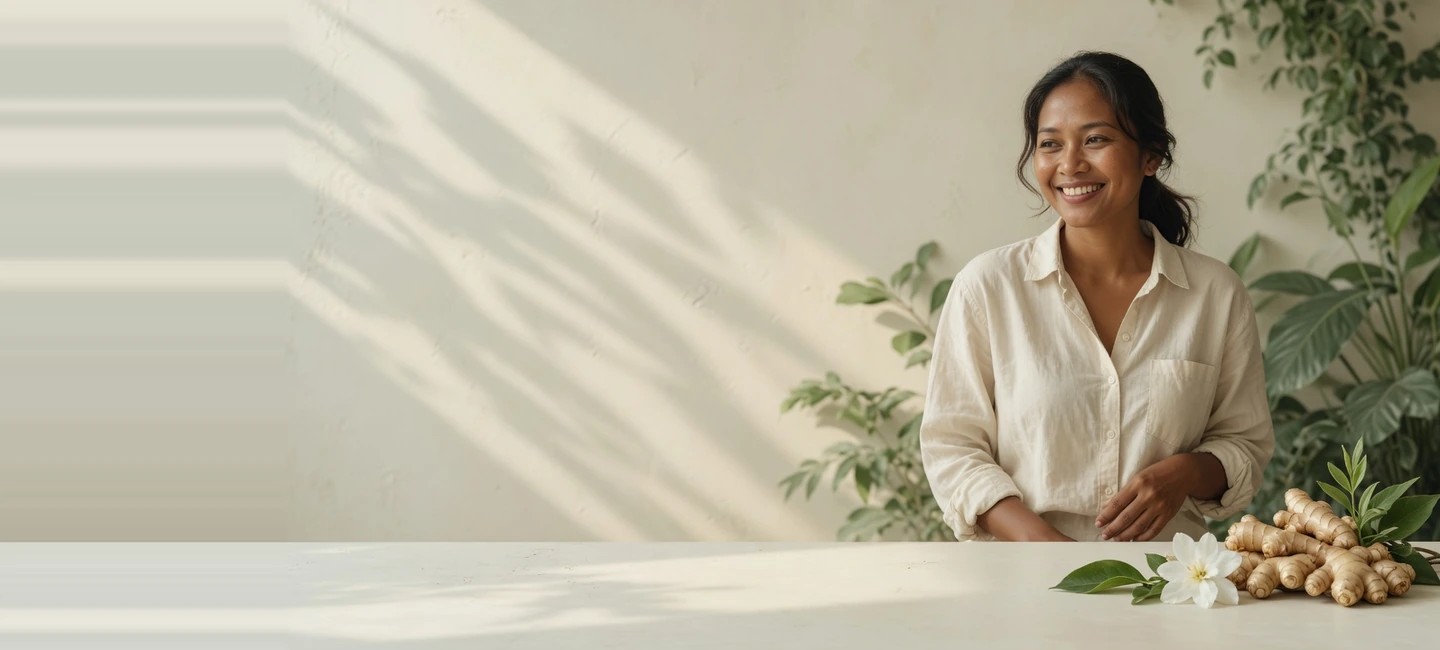
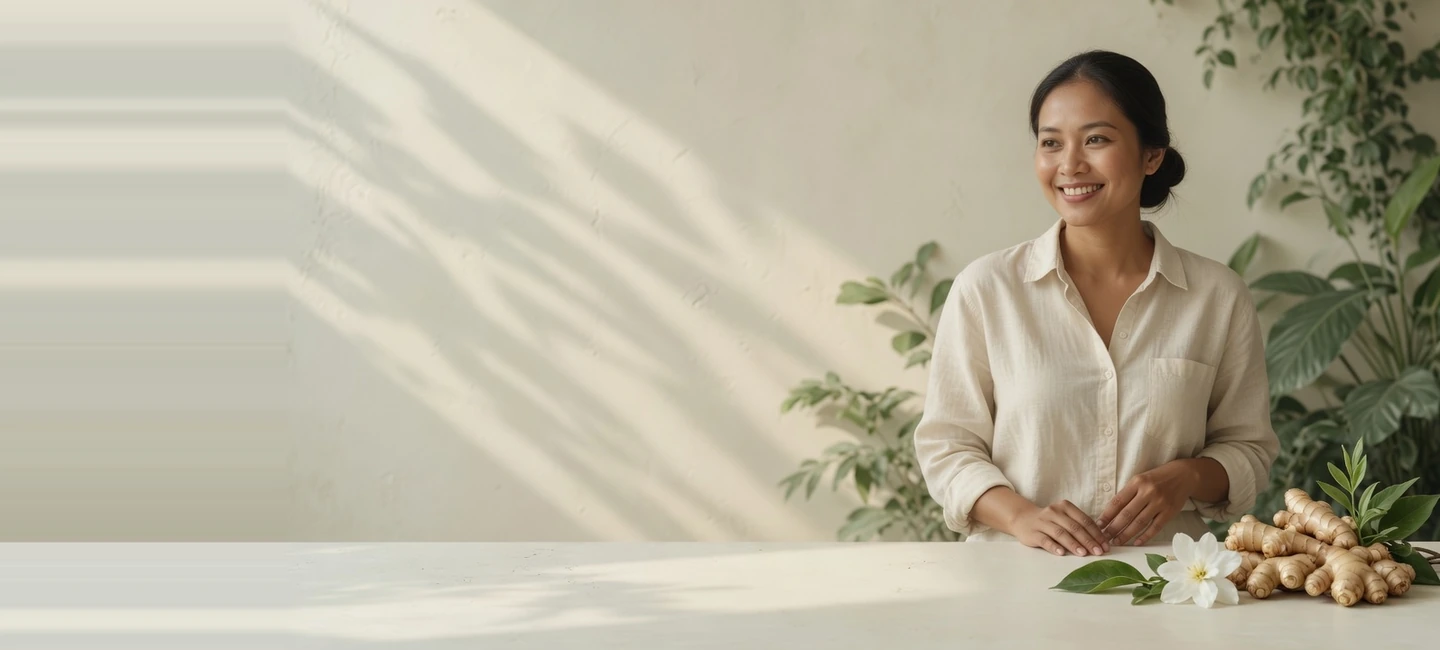
Use Homepage 2 as main homepage with refreshed hero (#2)
* fix: refresh Mecosin hero portrait and match design product positions

* feat: use approved Homepage 2 as Mecosin main homepage

Changed region(s): [[0.625, 0.3692, 0.9062, 0.8615], [0.6875, 0.0923, 0.8438, 0.4], [0.75, 0.0615, 0.7812, 0.0923]]

diff --git a/site/src/styles/approved-home.css b/site/src/styles/approved-home.css
@@ -1,2 +1,4 @@
 .consumer-featured-brands{display:grid;grid-template-columns:1fr 1fr;gap:22px}.consumer-brand-feature{border-radius:18px;overflow:hidden;background:#f5e8cf}.consumer-brand-feature.mecovit{background:#e7f0f5}.consumer-feature-photo{height:270px;background-size:cover;background-position:center bottom;display:flex;align-items:flex-end;justify-content:center;gap:30px;padding:20px 35px}.consumer-feature-photo img{width:44%;height:210px;object-fit:contain;filter:drop-shadow(0 8px 5px #243c3020)}.consumer-feature-copy{padding:28px 30px 30px}.consumer-feature-copy h3{font-size:30px;margin-bottom:17px}.consumer-feature-copy h4{font-size:20px;line-height:1.4;margin-bottom:18px}.consumer-feature-copy p{font-size:15px;line-height:1.65;color:#526449;min-height:100px}.consumer-feature-copy .ref-text-link{margin-top:20px}.consumer .ref-guide-large>div{background:#123c2c55;border-radius:10px;padding:16px}.consumer .ref-products .product-grid{grid-template-columns:repeat(5,minmax(0,1fr))}.shop-listing-intro{padding-top:24px;padding-bottom:30px}.shop-listing-intro h1{font-size:32px}.shop-listing-intro p{margin-top:12px;color:#637369}.reference-site.consumer #cart-drawer h2{font-size:26px}.reference-site.consumer #cart-drawer .cart-row a{display:block}.consumer .ref-question span svg,.consumer .ref-btn:not(.outline) svg{color:inherit}.consumer .consumer-full-bleed{object-position:top center}
 @media(max-width:760px){.consumer-featured-brands{grid-template-columns:1fr}.consumer-feature-photo{height:200px;gap:18px;padding:16px 22px}.consumer-feature-photo img{height:160px}.consumer-feature-copy{padding:22px}.consumer-feature-copy h3{font-size:26px}.consumer-feature-copy h4{font-size:18px}.consumer-feature-copy p{font-size:14px;min-height:0}.consumer .consumer-full-bleed{object-position:top center}.consumer .ref-hero-products{left:0;right:0;bottom:18px;gap:3%}.consumer .ref-hero-products img{width:30%;height:105px;max-height:105px}.shop-listing-intro h1{font-size:26px}}
+.consumer .consumer-hero-composition{position:absolute;inset:0;z-index:2;pointer-events:none}.consumer .consumer-hero-composition .hero-pack{position:absolute;object-fit:contain;filter:drop-shadow(0 8px 6px #243c3025)}.consumer .hero-pack-laserin-sachet{left:81.1111%;top:66.6154%;width:11.875%;height:28%}.consumer .hero-pack-laserin-madu-orange{left:58.6111%;top:71.3846%;width:21.25%;height:22.1538%}.consumer .hero-pack-mecovit-d3-1000-iu{left:69.0278%;top:82.4615%;width:15.2778%;height:13.75%}.consumer .consumer-product-shelf{position:absolute;left:54.2361%;top:89.8462%;width:44.375%;height:6.7692%;border-radius:10px;background:#f5f0e4eb}.consumer .consumer-full-bleed{object-position:top center}
+@media(max-width:760px){.consumer .consumer-hero-composition{top:auto;bottom:0;height:365px}.consumer .hero-pack-laserin-sachet{left:10%;top:57.4315%;width:31.7949%;height:36.4384%}.consumer .hero-pack-laserin-madu-orange{left:40.7692%;top:70.3082%;width:50.5128%;height:22.7397%}.consumer .hero-pack-mecovit-d3-1000-iu{left:24.359%;top:82.911%;width:30.7692%;height:13.3562%}.consumer .consumer-product-shelf{display:none}}
